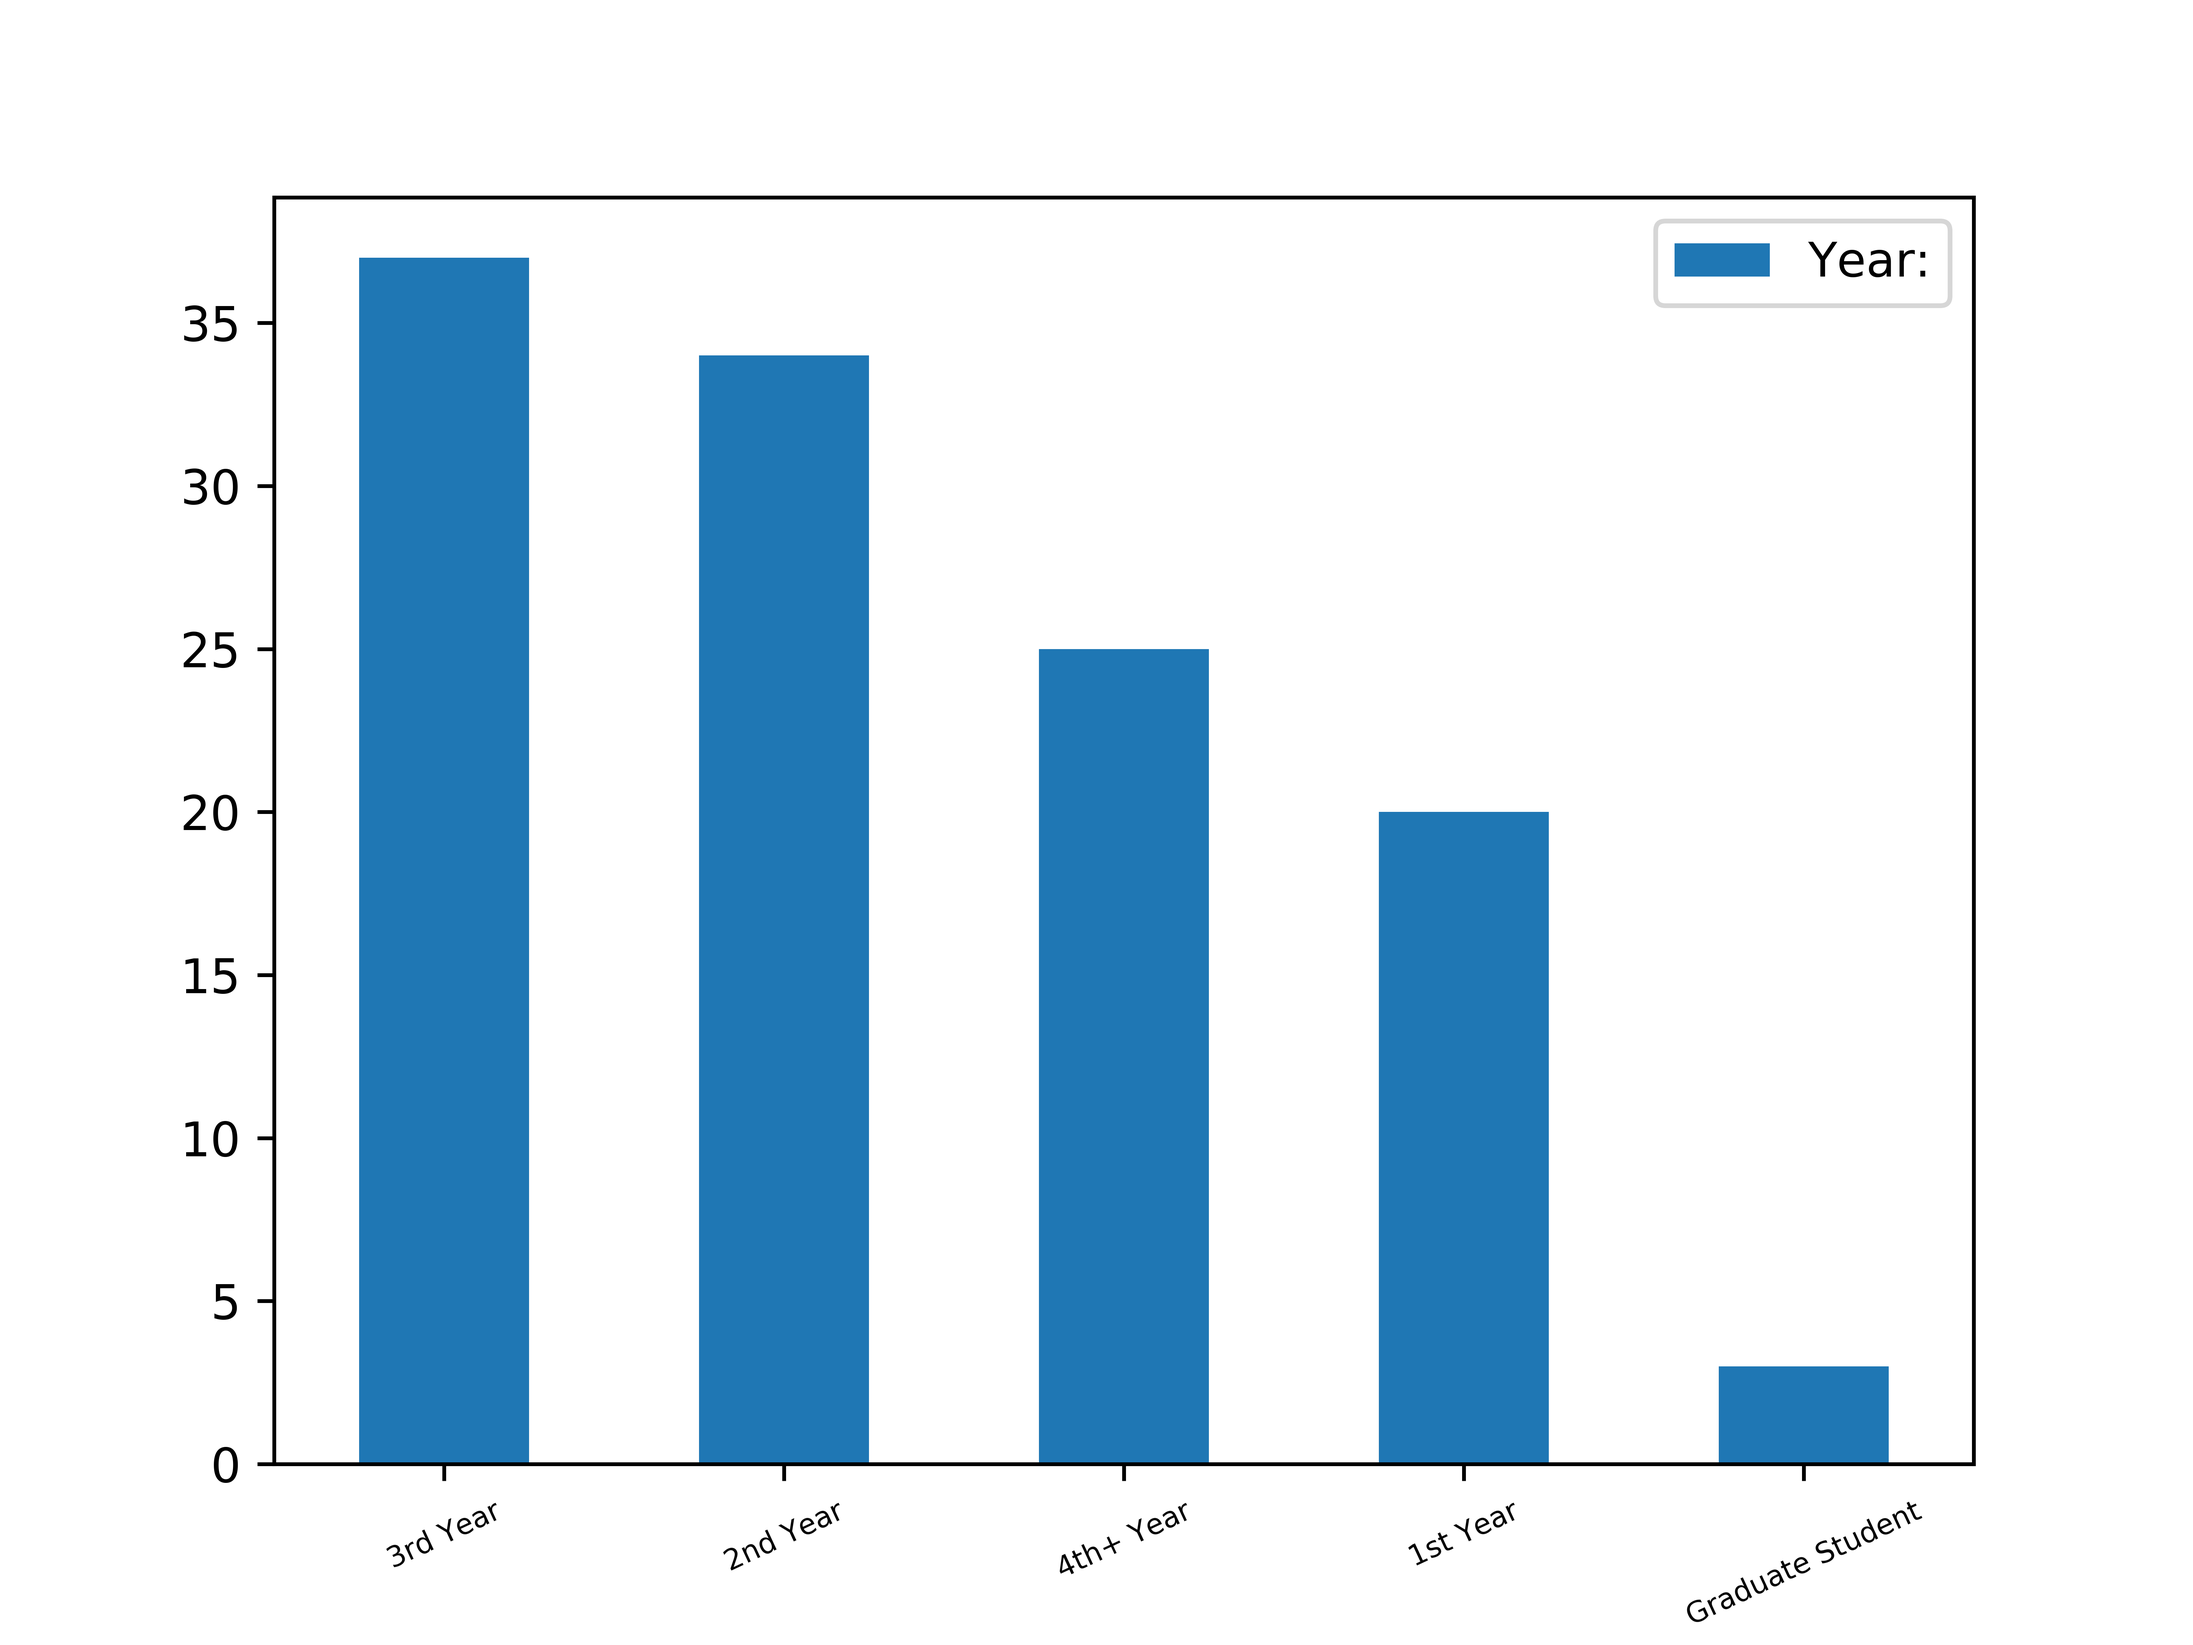
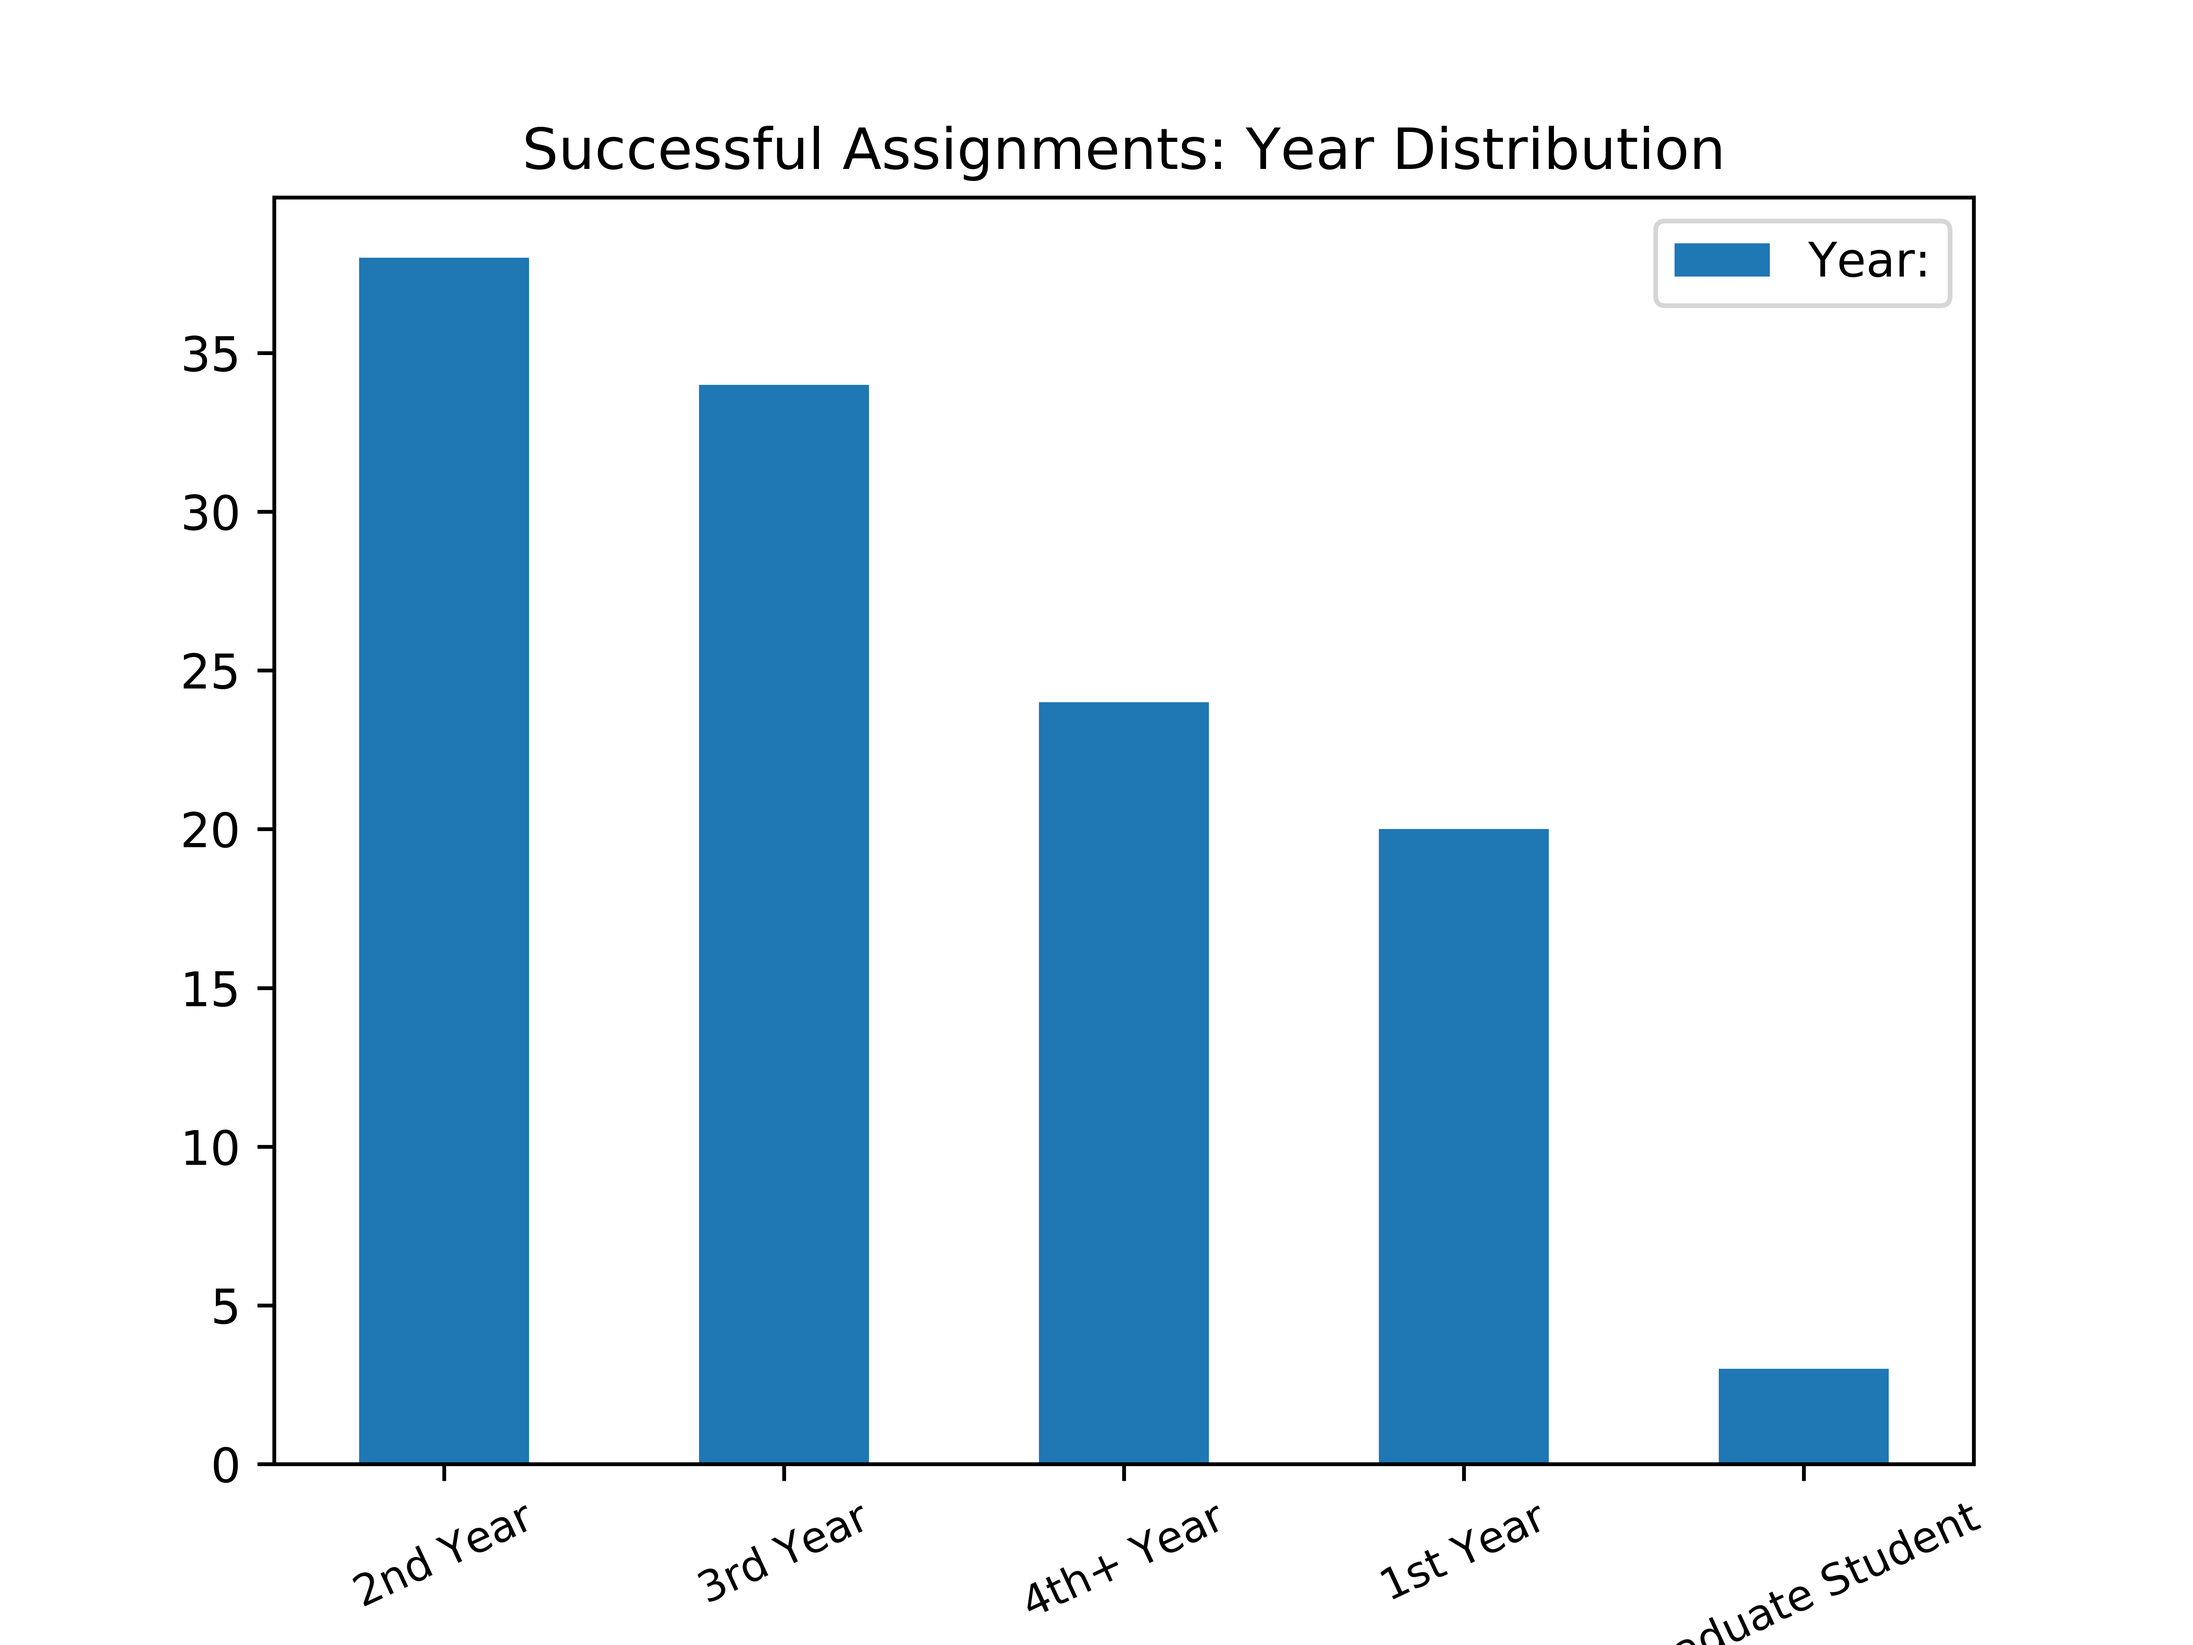
FIxed dataframe access error, cleaning up code
Separating files to begin UI interface

diff --git a/NetworkingNight.py b/NetworkingNight.py
@@ -19,6 +19,7 @@ def Merge(*dict_args):
     for dictionary in dict_args:
         assignments.update(dictionary)
     return assignments
+
 # ----------------------------------------------------------------------------------------------------------------------
 # Connecting to the sheet
 scope = ["https://spreadsheets.google.com/feeds",'https://www.googleapis.com/auth/spreadsheets',"https://www.googleapis.com/auth/drive.file","https://www.googleapis.com/auth/drive"]
@@ -130,10 +131,11 @@ for student in students_df.itertuples():
                 pickDessert_df = companies_df[(companies_df['Majors'].str.contains(major)) & (companies_df['Dessert'] > 0)]
                 if not pickDessert_df.empty:
                     # Update & store number of seats left
-                    companies_df.at[preference, 'Entree'] = companies_df.at[preference, 'Entree'] - 1
+
+                    companies_df.loc[preference, 'Entree'] = companies_df.at[preference, 'Entree'] - 1
                     dessert_co_labels = pickDessert_df.axes[0].tolist()
                     dessert_company = dessert_co_labels[0]
-                    companies_df.at[dessert_company, 'Dessert'] = companies_df.at[dessert_company, 'Dessert'] - 1
+                    companies_df.loc[dessert_company, 'Dessert'] = companies_df.at[dessert_company, 'Dessert'] - 1
                     entree_dict['Entree Seating:'].append(preference)
                     dessert_dict['Dessert Seating:'].append(dessert_company)
 
@@ -145,10 +147,10 @@ for student in students_df.itertuples():
             if (not findDessert_df.empty) & (matchFound != 1):
                 pickEntree_df = companies_df[(companies_df['Majors'].str.contains(major)) & companies_df['Entree'].between(1,7)]
                 if not pickEntree_df.empty:
-                    companies_df.at[preference,'Dessert']=companies_df.at[preference,'Dessert'] - 1
+                    companies_df.loc[preference,'Dessert'] = companies_df.loc[preference,'Dessert'] - 1
                     entree_co_labels = pickEntree_df.axes[0].tolist()
                     entree_company = entree_co_labels[0]
-                    companies_df.at[entree_company,'Entree'] = companies_df.at[entree_company,'Entree'] - 1
+                    companies_df.loc[entree_company,'Entree'] = companies_df.at[entree_company,'Entree'] - 1
                     entree_dict['Entree Seating:'].append(entree_company)
                     dessert_dict['Dessert Seating:'].append(preference)
 
@@ -161,12 +163,10 @@ for student in students_df.itertuples():
 
 # Now, Combine all of the dictionaries created into a data frame
 results = Merge(firstName_dict, lastName_dict, eID_dict,year_dict,email_dict,entree_dict, dessert_dict, major_dict)
-
 results_df = pd.DataFrame(results)
 
 # Create a data frame of only the successful assignments
 assignments_df = results_df[~((results_df['Entree Seating:'].str.contains('failed')))]
-
 
 # Create a Pandas Excel writer using XlsxWriter as the engine.
 writer = pd.ExcelWriter('Results_2018.xlsx', engine='xlsxwriter')
@@ -174,7 +174,6 @@ writer = pd.ExcelWriter('Results_2018.xlsx', engine='xlsxwriter')
 # Convert the assignments dataframe to an XlsxWriter Excel object.
 results_df.to_excel(writer, sheet_name='Sheet1')
 assignments_df.to_excel(writer, sheet_name = 'Sheet2')
-
 
 # Close the Pandas Excel writer and output the Excel file.
 writer.save()
@@ -190,15 +189,24 @@ plt.savefig('preferences.png')
 # Analyze the distribution of majors
 assignments_df[['Major:']].apply(pd.value_counts).plot(kind = 'bar')
 plt.yticks(fontsize = 10)
-plt.xticks(fontsize=5, rotation = 65)
-
+plt.xticks(fontsize=4, rotation = 35)
+plt.title('Successful Assignments: Major Distribution')
 plt.savefig('Major_Distribution.png', dpi = 1000)
-
+results_df[['Major:']].apply(pd.value_counts).plot(kind = 'bar')
+plt.xticks(fontsize = 6)
+plt.title('ALL: Major Distribution')
+plt.gcf().subplots_adjust(bottom = 0.35)
+plt.savefig('Major_Distribution_ALL.png', dpi = 1000)
 # Analyze the distribution of years
 assignments_df[['Year:']].apply(pd.value_counts).plot(kind='bar')
-plt.xticks(fontsize = 6, rotation = 25)
+plt.xticks(fontsize = 9, rotation = 25)
+plt.title('Successful Assignments: Year Distribution')
 plt.savefig('Year_Distribution.png', dpi = 1000)
-
+#Need to analyze the distribution of years of the succesful assignments vs total
+results_df[['Year:']].apply(pd.value_counts).plot(kind = 'bar')
+plt.xticks(fontsize = 6, rotation = 45)
+plt.title('All: Year Distribution')
+plt.savefig('Year_Distribution_ALL.png', dpi = 1000)
 
 
 

diff --git a/Analysis.py b/Analysis.py
@@ -1,0 +1,1 @@
+# Analyze the data created
